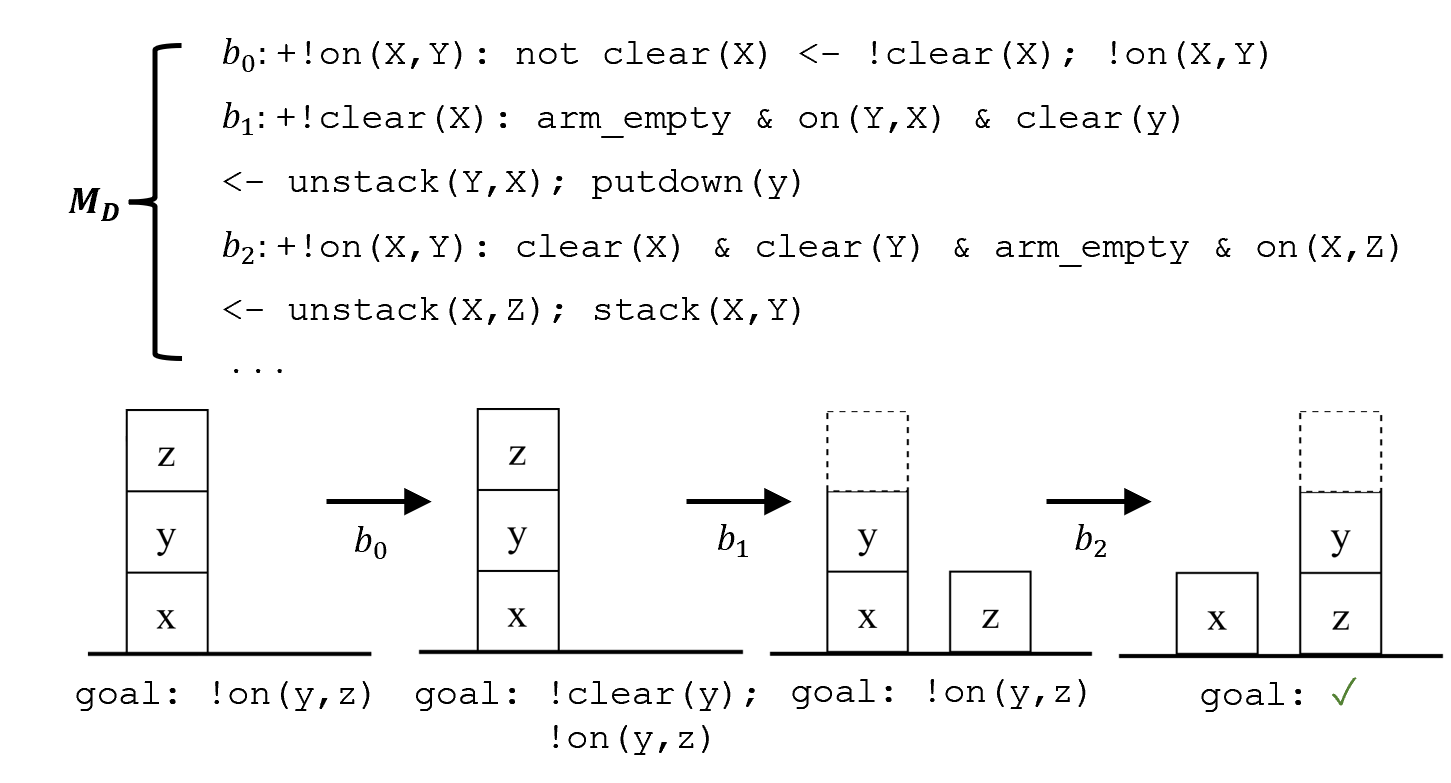
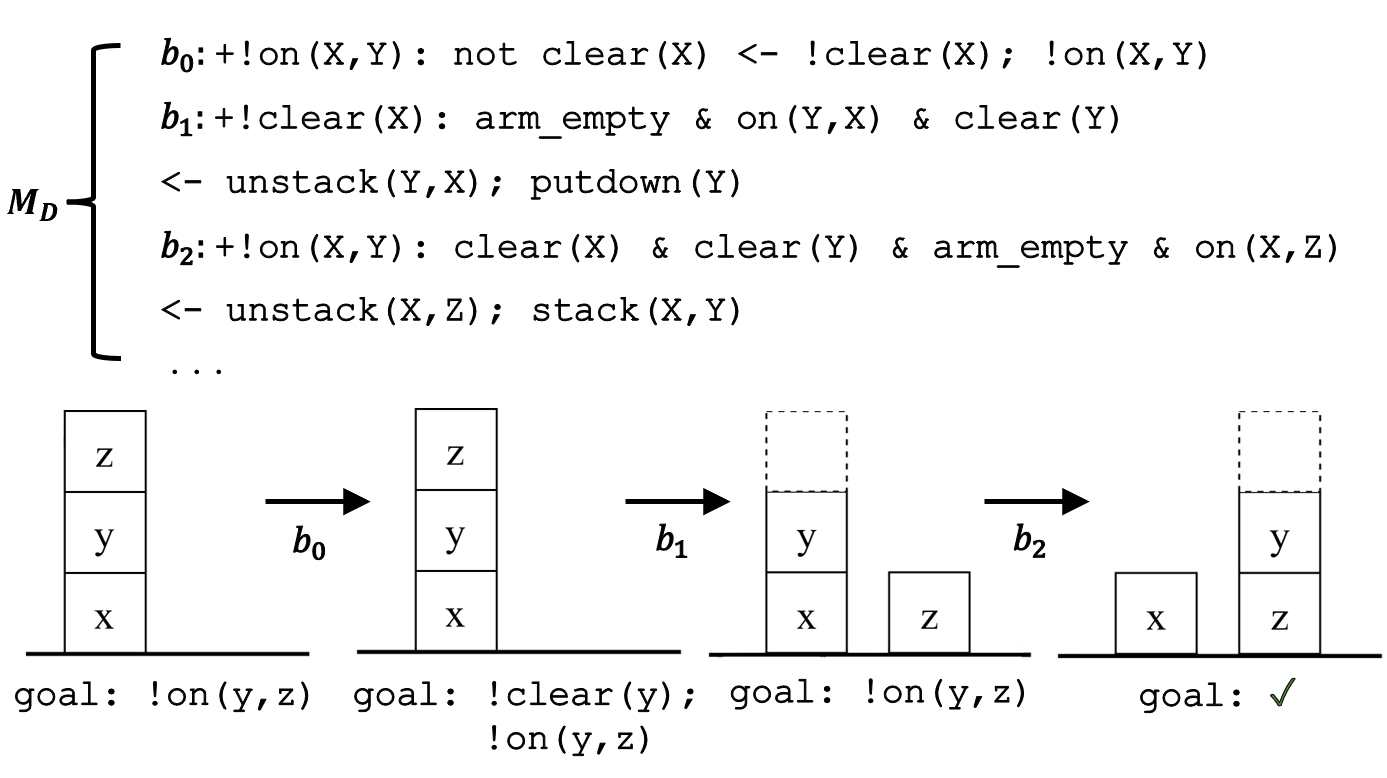
docs: replace frozen atomic-core Figure 3

diff --git a/docs/aaai_paper_narrative_outline.md b/docs/aaai_paper_narrative_outline.md
@@ -833,7 +833,7 @@ Canvas, PowerPoint, Python, and export settings:
 - Main Figure 1 uses the approved 2558-by-1256, 330-DPI PNG and is inserted at
   3.25 inches wide (approximately 1.60 inches high). Main Figure 2 uses a
   13.333-by-4.2-inch PowerPoint export canvas and is inserted at 7.0 inches
-  wide. Figure 3 uses the approved 1451-by-783, 330-DPI PNG and is inserted at
+  wide. Figure 3 uses the approved 1387-by-778, 330-DPI PNG and is inserted at
   one column.
   The supplementary DFA figure uses a 13.333-by-5.333-inch
   PowerPoint canvas. Figure 1 retains its supplied alpha channel and must be